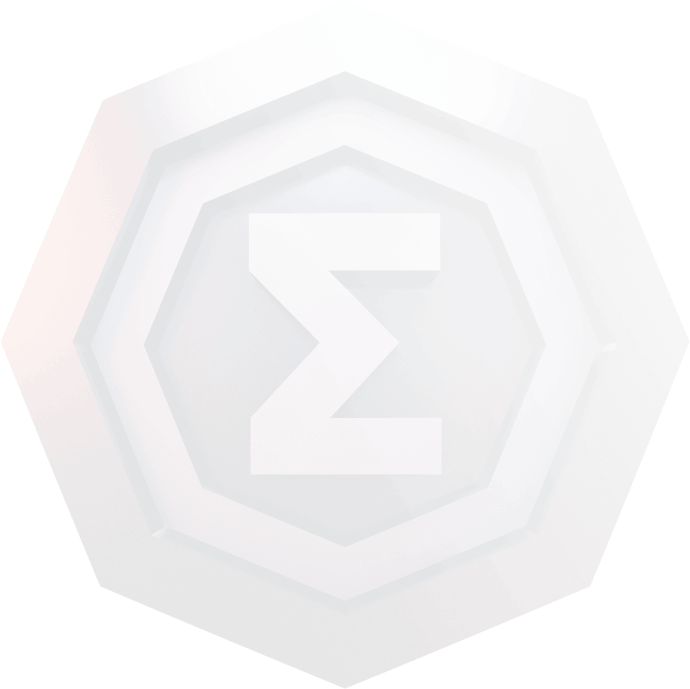
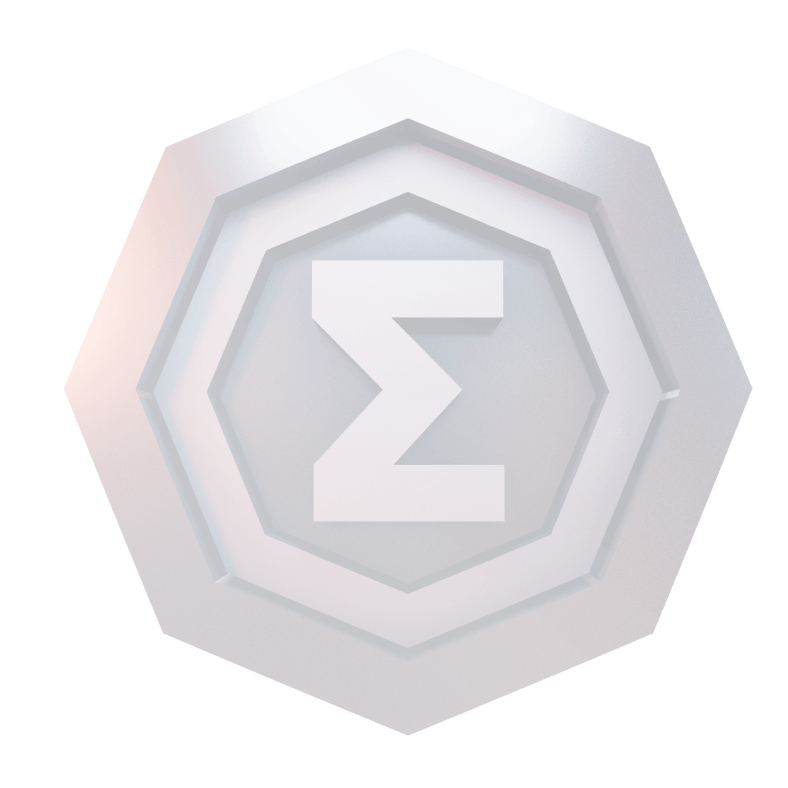
some spacing and gradient fixes

Changed region(s): [[0.1522, 0.1524, 0.9739, 0.9448], [0.213, 0.1524, 0.2739, 0.2134]]

diff --git a/styles/geterg.scss b/styles/geterg.scss
@@ -20,10 +20,10 @@
 
 .geterg-frame-2 {
   position: absolute;
-  width: 690px;
-  height: 689px;
-  left: 65px;
-  top: 90px;
+  width: 770px;
+  height: 770px;
+  left: 150px;
+  top: -15px;
   background: no-repeat url("/assets/geterg/frame-2-light.png");
 }
 
@@ -142,6 +142,7 @@
     transform: scale(0.5);
     transform-origin: top left;
     left: 60px;
+    top: -40px;
   }
   .geterg-frame-3 {
     transform: scale(0.5);

diff --git a/styles/community.scss b/styles/community.scss
@@ -266,13 +266,13 @@
   .community-frame-7 {
     transform: scale(0.5);
     transform-origin: center right;
-    top: 3700px;
+    top: 3900px;
   }
   .dark .community-frame-8,
   .community-frame-8 {
     transform: scale(0.3);
     transform-origin: center left;
-    top: 4400px;
+    top: 4733px;
   }
   .dark .community-frame-9,
   .community-frame-9 {
